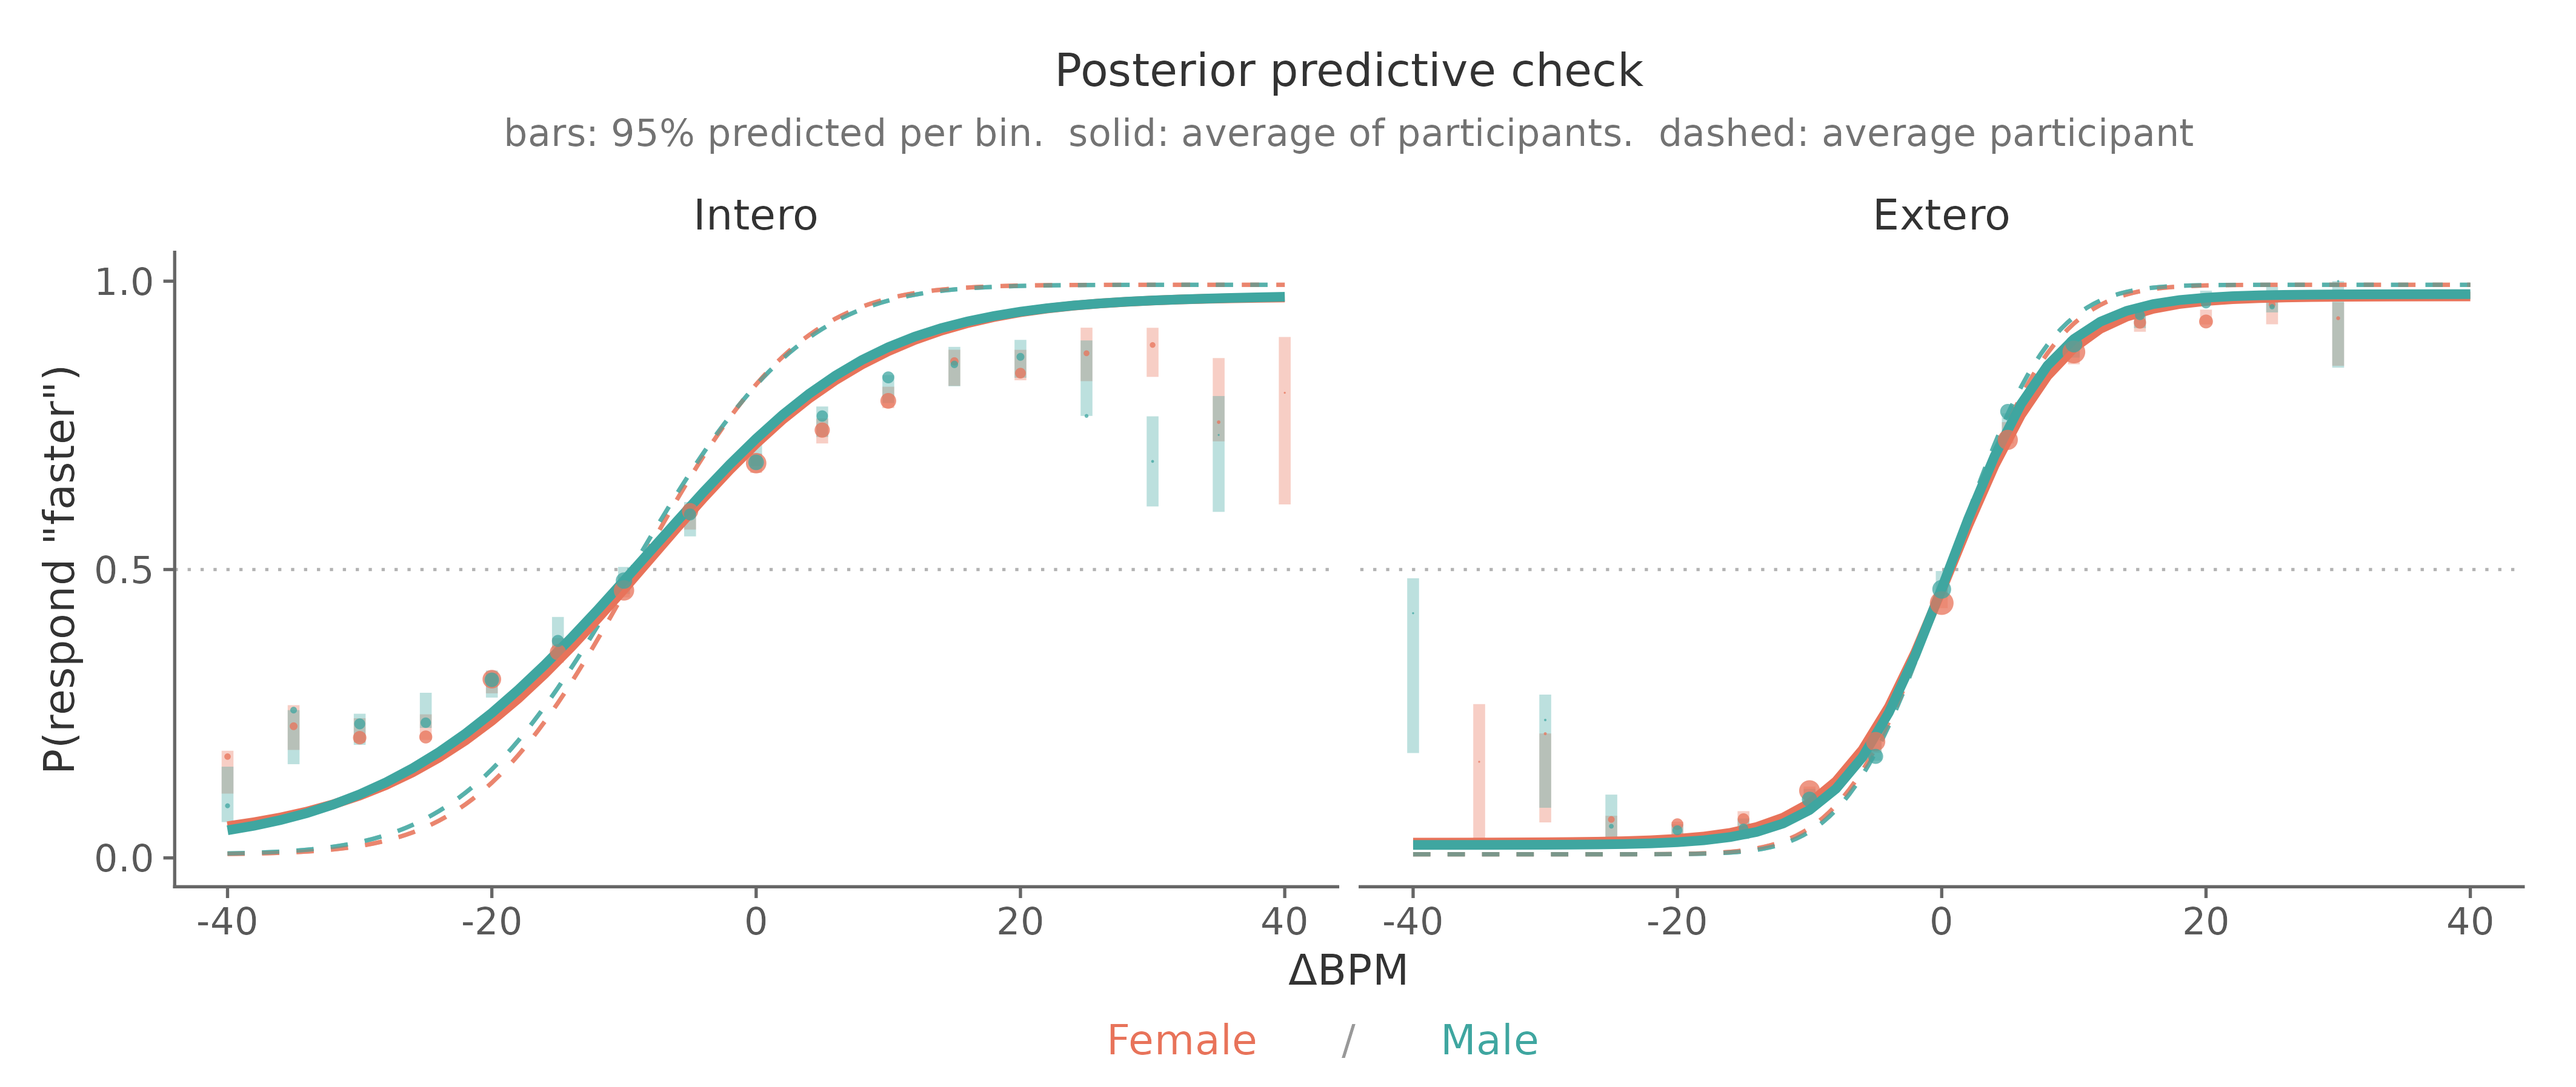
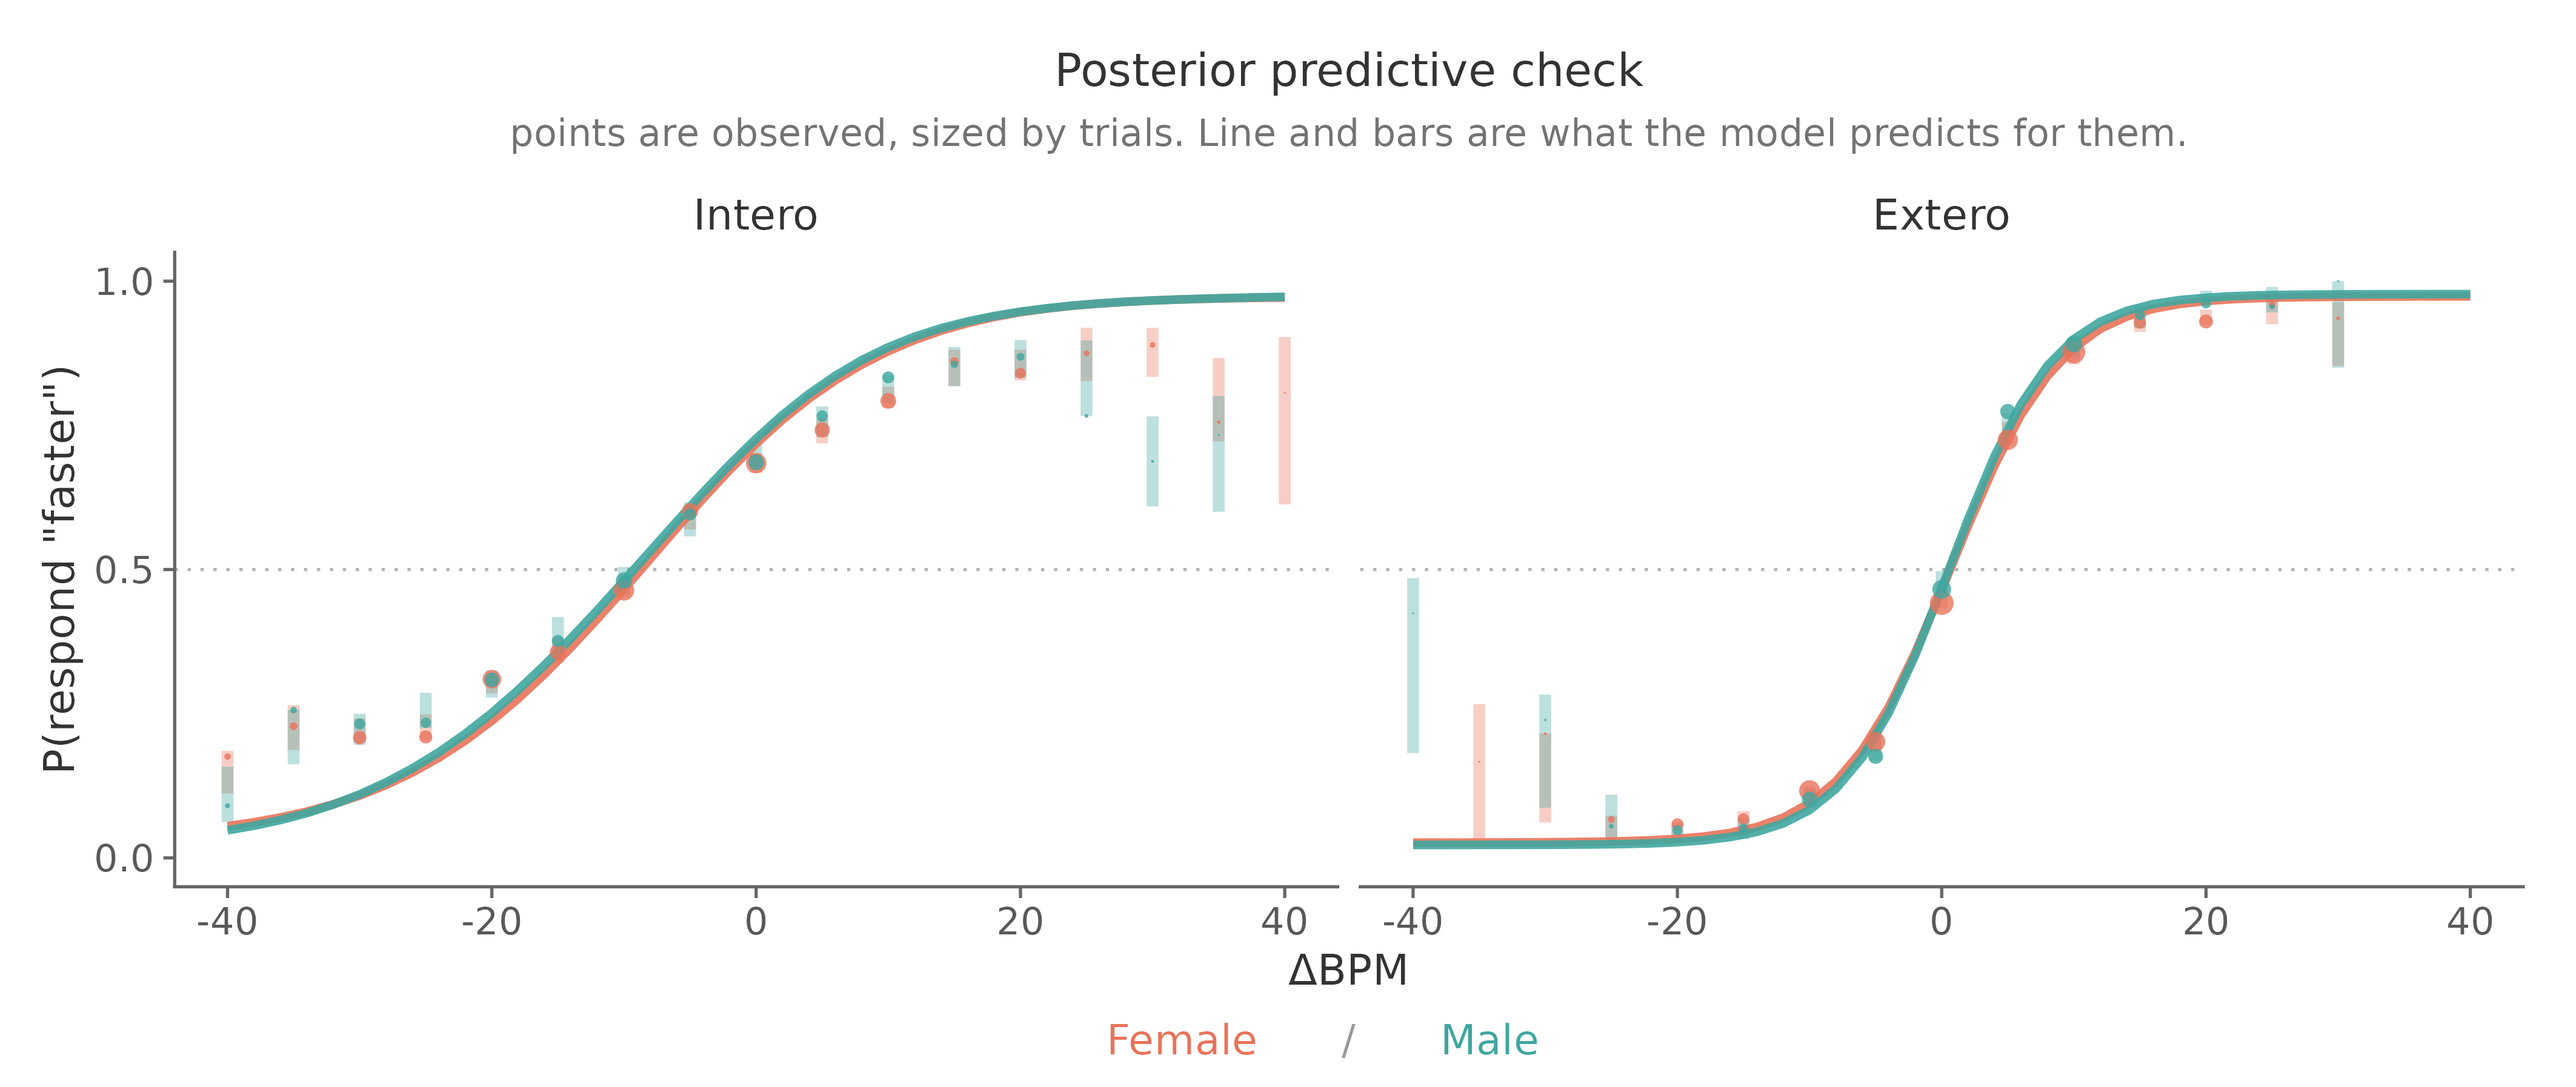
Show only predictions and data on the posterior predictive check
The panel carried the population curve as a dashed line alongside the
predictions. Pooled data do not estimate that curve, so its only effect was to
invite the reader to measure the points against the wrong line. A check of fit
should show what the model predicts and what was observed.

What remains is the observed proportion per bin, the predictive interval for
that bin, and the continuous curve of the same predicted quantity.

The comparison between the two curves keeps its place on fig_population, where
it is the actual subject, and the caveat is now a warning box rather than
something the reader has to infer from a figure.

For the record, since the coincidence is easy to misread: the two curves sit on
top of each other in the auditory condition because the gap between them scales
with how much participants differ, and in that condition they barely do. The
between-participant SD of threshold is 2.44 dBPM for Extero against 10.97 for
Intero, giving a largest gap of 0.026 and 0.099 respectively.

diff --git a/docs/source/tutorials/hierarchical.md b/docs/source/tutorials/hierarchical.md
@@ -190,24 +190,29 @@ recommends, and it should be your primary one.
 cf <- coef(fit)$subj[, "Estimate", ]
 ```
 
-**Then the pooled check, with its caveat.** Pooling observed proportions across
-participants and drawing them against the fitted curve is tempting, and the points
-will miss. Usually that is not misfit. Pooled data estimate the *average of the
-participants' curves*, while the population curve is the curve *of the average
-participant*, and with a threshold SD near 11 ΔBPM those are visibly different
-lines. See [two averages that are not the same](psychophysics.md#two-averages).
+**Then the pooled check.** Pool the observed proportions into bins and ask the
+model what it predicts for those same bins.
 
 ![Posterior predictive check by modality and gender](../images/tutorials/fig_ppc_modality_gender.png)
 
-The points track the solid line, not the dashed one. What actually decides the
-question is the bars: the model's predictive interval for each bin, computed over
-the real trials. On the worked model 60 of 61 bins fall inside their 95% interval,
-and the one that does not misses by 0.003. The model fits.
+Everything on that figure is either data or a prediction of it: the points are
+observed, and the bars and the line are what the model expects for them. On the
+worked model **60 of 61 bins fall inside their 95% interval**, and the one that
+does not misses by 0.003. The model fits.
 
 Use `posterior_predict()` for those bars, not `posterior_epred()`. The expectation
 carries uncertainty in the mean but no binomial sampling noise, so as a predictive
 interval it is far too narrow in thinly sampled bins and will report misfit that is
 nothing but noise.
+
+```{warning}
+Do not check pooled data against the population curve. `re_formula = NA` gives
+the curve *of the average participant*, while pooled proportions estimate the
+*average of the participants' curves*, and with a threshold SD near 11 ΔBPM those
+are different lines. Comparing them makes a model that fits look badly wrong. The
+prediction to use here is one made over the participants and trials that actually
+produced each bin. See [two averages that are not the same](psychophysics.md#two-averages).
+```
 
 A third effect shows up at the extremes of this task specifically. The staircase
 concentrates trials near each participant's own threshold, so a bin at −40 ΔBPM
